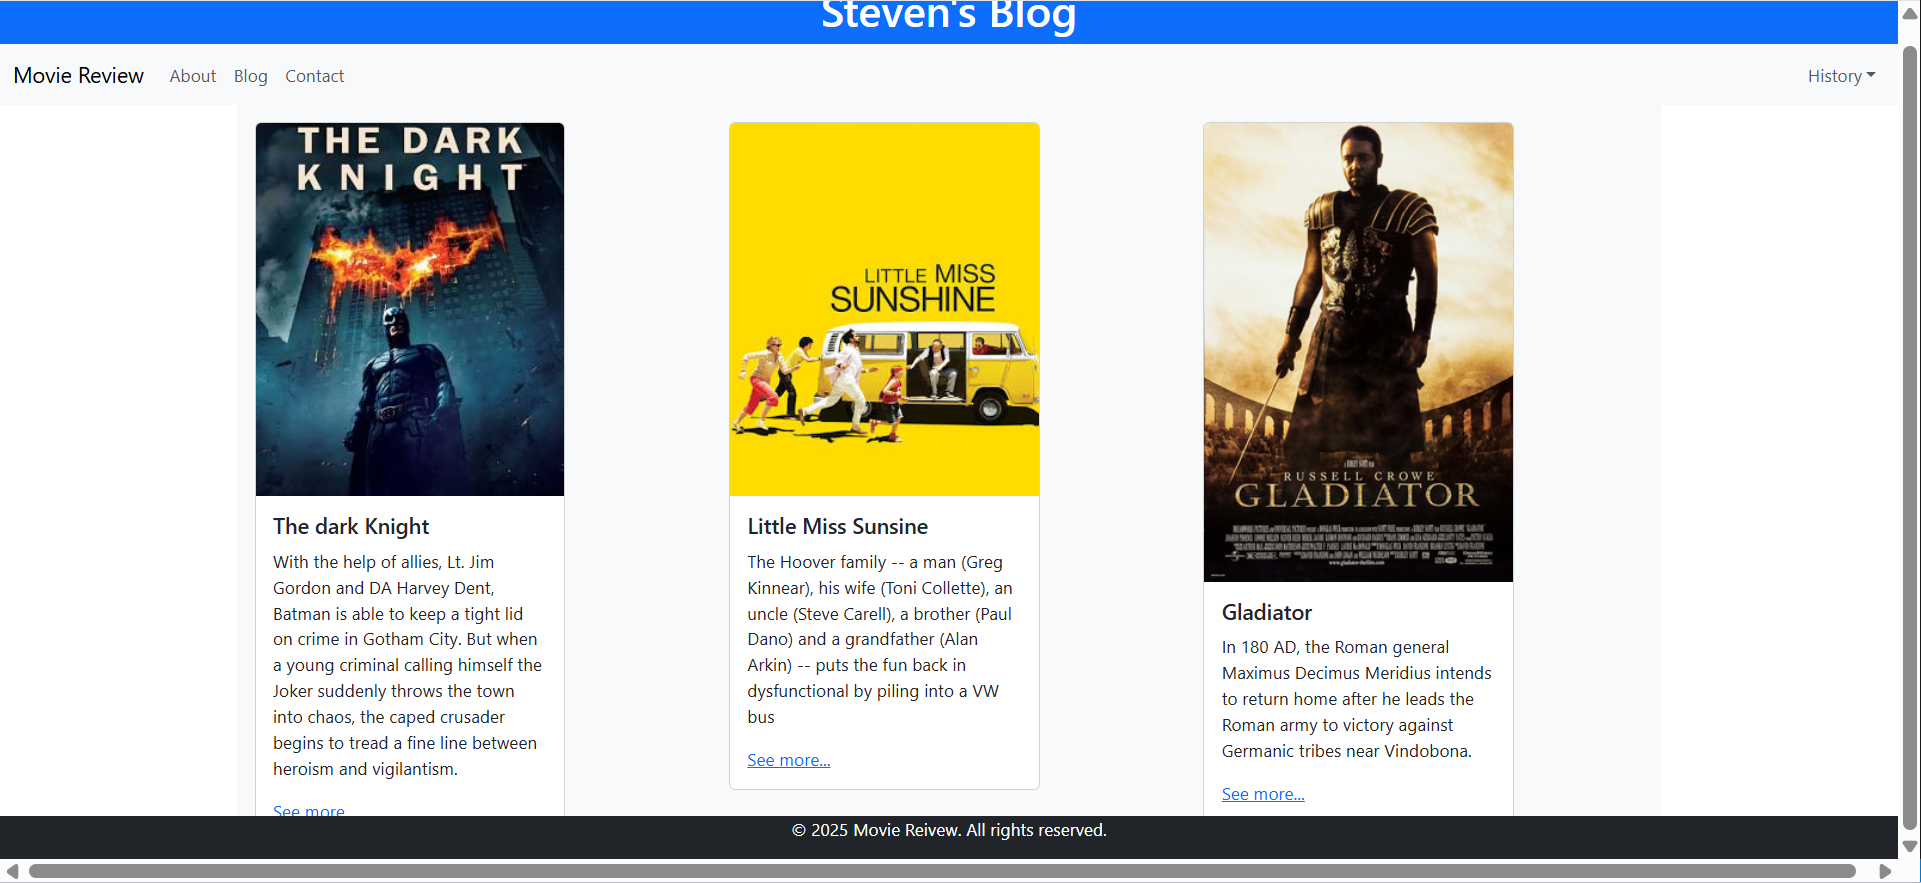
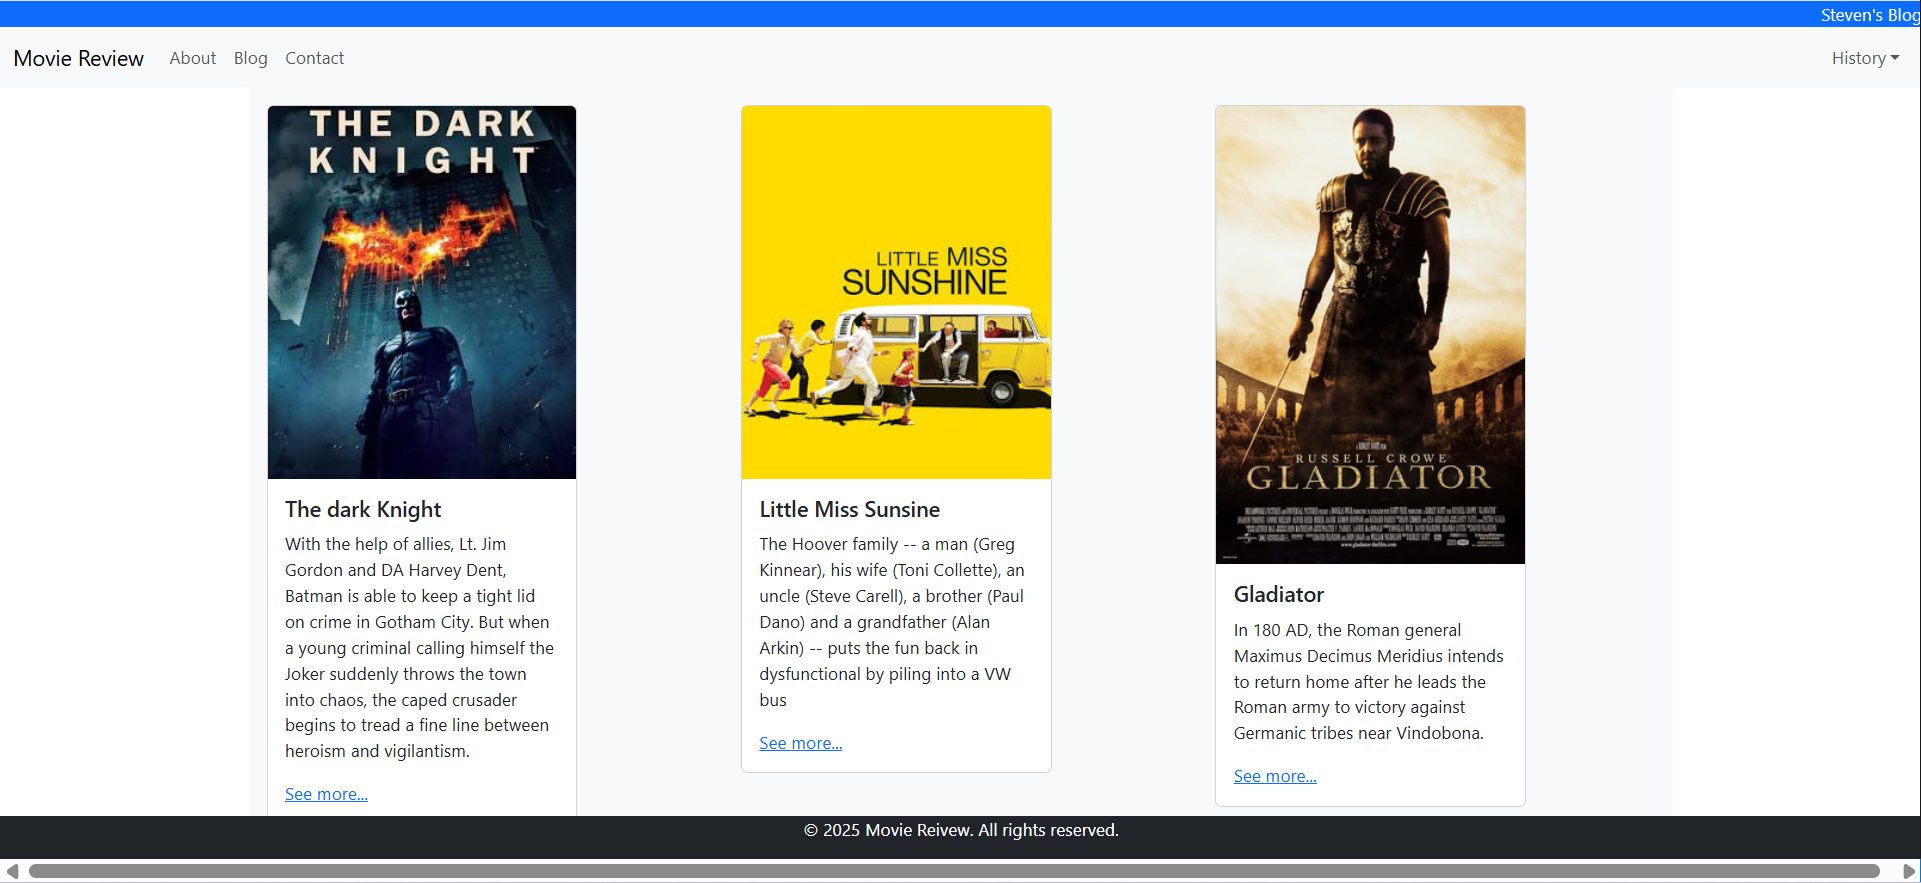
edit

diff --git a/Bootstrap HW1/blog.html b/Bootstrap HW1/blog.html
@@ -12,7 +12,7 @@
 <body>
 
 <div class="row bg-primary text-white text-center p-0">
-    <div class="col"><h1>Steven's Blog</h1></div>
+    <div class="col text-end">Steven's Blog</div>
 </div>
 
 <nav class="navbar navbar-expand-lg bg-body-tertiary">
